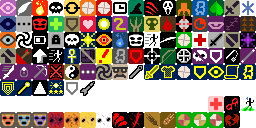
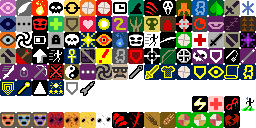
Talented DM200

Changed region(s): [[0.75, 0.75, 0.8125, 0.875]]

diff --git a/core/src/main/java/com/shatteredpixel/shatteredpixeldungeon/expanded/actors/mobs/stronger/StrongDM200.java b/core/src/main/java/com/shatteredpixel/shatteredpixeldungeon/expanded/actors/mobs/stronger/StrongDM200.java
@@ -1,0 +1,164 @@
+/*
+ * Pixel Dungeon
+ * Copyright (C) 2012-2015 Oleg Dolya
+ *
+ * Shattered Pixel Dungeon
+ * Copyright (C) 2014-2026 Evan Debenham
+ *
+ * This program is free software: you can redistribute it and/or modify
+ * it under the terms of the GNU General Public License as published by
+ * the Free Software Foundation, either version 3 of the License, or
+ * (at your option) any later version.
+ *
+ * This program is distributed in the hope that it will be useful,
+ * but WITHOUT ANY WARRANTY; without even the implied warranty of
+ * MERCHANTABILITY or FITNESS FOR A PARTICULAR PURPOSE.  See the
+ * GNU General Public License for more details.
+ *
+ * You should have received a copy of the GNU General Public License
+ * along with this program.  If not, see <http://www.gnu.org/licenses/>
+ */
+
+package com.shatteredpixel.shatteredpixeldungeon.expanded.actors.mobs.stronger;
+
+import com.shatteredpixel.shatteredpixeldungeon.Assets;
+import com.shatteredpixel.shatteredpixeldungeon.Badges;
+import com.shatteredpixel.shatteredpixeldungeon.Dungeon;
+import com.shatteredpixel.shatteredpixeldungeon.actors.Char;
+import com.shatteredpixel.shatteredpixeldungeon.actors.buffs.Buff;
+import com.shatteredpixel.shatteredpixeldungeon.actors.buffs.FlavourBuff;
+import com.shatteredpixel.shatteredpixeldungeon.actors.hero.Hero;
+import com.shatteredpixel.shatteredpixeldungeon.actors.mobs.DM200;
+import com.shatteredpixel.shatteredpixeldungeon.effects.particles.SparkParticle;
+import com.shatteredpixel.shatteredpixeldungeon.expanded.sprites.StrongDM200Sprite;
+import com.shatteredpixel.shatteredpixeldungeon.items.scrolls.ScrollOfRecharging;
+import com.shatteredpixel.shatteredpixeldungeon.items.weapon.enchantments.Shocking;
+import com.shatteredpixel.shatteredpixeldungeon.messages.Messages;
+import com.shatteredpixel.shatteredpixeldungeon.ui.BuffIndicator;
+import com.watabou.noosa.audio.Sample;
+import com.watabou.utils.Bundle;
+import com.watabou.utils.Random;
+
+public class StrongDM200 extends DM200 {
+
+	{
+        spriteClass = StrongDM200Sprite.class;
+	}
+
+    private int energy = 0;
+
+    @Override
+    public boolean attack(Char enemy, float dmgMulti, float dmgBonus, float accMulti) {
+        boolean result = super.attack(enemy, dmgMulti, dmgBonus, accMulti);
+        boolean overcharged = isOvercharged();
+
+        if (result && overcharged) {
+            Sample.INSTANCE.play(Assets.Sounds.LIGHTNING);
+
+            enemy.damage(Random.IntRange(5, 8), new Shocking());
+            enemy.sprite.centerEmitter().burst(SparkParticle.FACTORY, 3);
+            enemy.sprite.flash();
+            if (enemy instanceof Hero){
+                Badges.validateDeathFromEnemyMagic();
+                Dungeon.fail(this);
+            }
+
+        }
+
+        if (overcharged) {
+            Buff.prolong(this, Overcharge.class, Overcharge.DURATION);
+        } else if (result) {
+            energy += 1;
+        }
+
+        if (energy >= 3) {
+            if (sprite != null && sprite.visible){
+                Sample.INSTANCE.play( Assets.Sounds.CHARGEUP );
+                ScrollOfRecharging.charge(this);
+            }
+            updateChargeState(true); // Emitter inside sprites is already checking for sprite visibility
+            Buff.prolong(this, Overcharge.class, Overcharge.DURATION);
+            energy = 0;
+        }
+
+        return result;
+    }
+
+    @Override
+    protected boolean act() {
+        if (enemy == null){
+            energy = 0;
+        }
+        return super.act();
+    }
+
+    public void updateChargeState(boolean state){
+        ((StrongDM200Sprite)sprite).updateChargeState(state);
+    }
+
+    public boolean isOvercharged(){
+        return buff(Overcharge.class) != null;
+    }
+
+    @Override
+    public String description() {
+        return super.description() + "\n\n" + Messages.get(this, "talent");
+    }
+
+    private final static String ENERGY = "energy";
+
+    @Override
+    public void storeInBundle(Bundle bundle) {
+        super.storeInBundle(bundle);
+        bundle.put(ENERGY, energy);
+    }
+
+    @Override
+    public void restoreFromBundle(Bundle bundle) {
+        super.restoreFromBundle(bundle);
+        energy = bundle.getInt(ENERGY);
+    }
+
+    public static class Overcharge extends FlavourBuff {
+
+        public static final int DURATION = 3;
+
+        {
+            actPriority = MOB_PRIO - 1; // Act after the DM has acted
+            type = buffType.POSITIVE;
+        }
+
+        @Override
+        public int icon() {
+            return BuffIndicator.OVERCHARGE;
+        }
+
+        @Override
+        public boolean attachTo(Char target) {
+            if (!(target instanceof StrongDM200)){
+                return false;
+            }
+            return super.attachTo(target);
+        }
+
+        @Override
+        public void detach() {
+            super.detach();
+            if (target instanceof StrongDM200) {
+                ((StrongDM200)target).updateChargeState(false);
+            }
+        }
+
+    }
+}
+
+
+
+
+
+
+
+
+
+
+

diff --git a/core/src/main/java/com/shatteredpixel/shatteredpixeldungeon/expanded/sprites/StrongDM200Sprite.java b/core/src/main/java/com/shatteredpixel/shatteredpixeldungeon/expanded/sprites/StrongDM200Sprite.java
@@ -1,0 +1,77 @@
+/*
+ * Pixel Dungeon
+ * Copyright (C) 2012-2015 Oleg Dolya
+ *
+ * Shattered Pixel Dungeon
+ * Copyright (C) 2014-2026 Evan Debenham
+ *
+ * This program is free software: you can redistribute it and/or modify
+ * it under the terms of the GNU General Public License as published by
+ * the Free Software Foundation, either version 3 of the License, or
+ * (at your option) any later version.
+ *
+ * This program is distributed in the hope that it will be useful,
+ * but WITHOUT ANY WARRANTY; without even the implied warranty of
+ * MERCHANTABILITY or FITNESS FOR A PARTICULAR PURPOSE.  See the
+ * GNU General Public License for more details.
+ *
+ * You should have received a copy of the GNU General Public License
+ * along with this program.  If not, see <http://www.gnu.org/licenses/>
+ */
+
+package com.shatteredpixel.shatteredpixeldungeon.expanded.sprites;
+
+import com.shatteredpixel.shatteredpixeldungeon.actors.Char;
+import com.shatteredpixel.shatteredpixeldungeon.effects.particles.SparkParticle;
+import com.shatteredpixel.shatteredpixeldungeon.expanded.actors.mobs.stronger.StrongDM200;
+import com.shatteredpixel.shatteredpixeldungeon.sprites.DM200Sprite;
+import com.watabou.noosa.particles.Emitter;
+
+public class StrongDM200Sprite extends DM200Sprite {
+
+
+    private Emitter superchargeSparks;
+    public void updateChargeState( boolean enraged ) {
+        if (superchargeSparks != null) superchargeSparks.on = enraged;
+    }
+
+    @Override
+    public void link(Char ch) {
+        super.link(ch);
+
+        superchargeSparks = emitter();
+        superchargeSparks.autoKill = false;
+        superchargeSparks.pour(SparkParticle.STATIC, 0.05f);
+        superchargeSparks.on = false;
+
+        if (ch instanceof StrongDM200 && ((StrongDM200) ch).isOvercharged()){
+            updateChargeState(true);
+        }
+    }
+
+    @Override
+    public void update() {
+        super.update();
+
+        if (superchargeSparks != null){
+            superchargeSparks.visible = visible;
+        }
+    }
+
+    @Override
+    public void die() {
+        super.die();
+        if (superchargeSparks != null){
+            superchargeSparks.on = false;
+        }
+    }
+
+    @Override
+    public void kill() {
+        super.kill();
+        if (superchargeSparks != null){
+            superchargeSparks.killAndErase();
+        }
+    }
+
+}

diff --git a/core/src/main/java/com/shatteredpixel/shatteredpixeldungeon/ui/BuffIndicator.java b/core/src/main/java/com/shatteredpixel/shatteredpixeldungeon/ui/BuffIndicator.java
@@ -46,6 +46,8 @@ import java.util.LinkedHashMap;
 public class BuffIndicator extends Component {
 
     // ----------------------------------- EXPANDED CONTENT ----------------------------------- //
+
+    public static final int OVERCHARGE = 108;
     public static final int RETAINED_VITALITY = 109;
     public static final int WILLING_SACRIFICE = 110;
     public static final int STICKY = 111;
